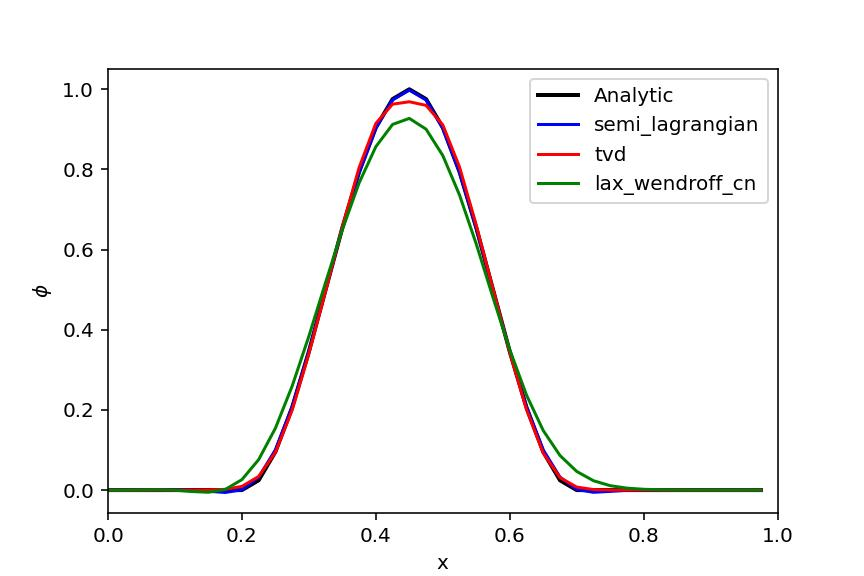
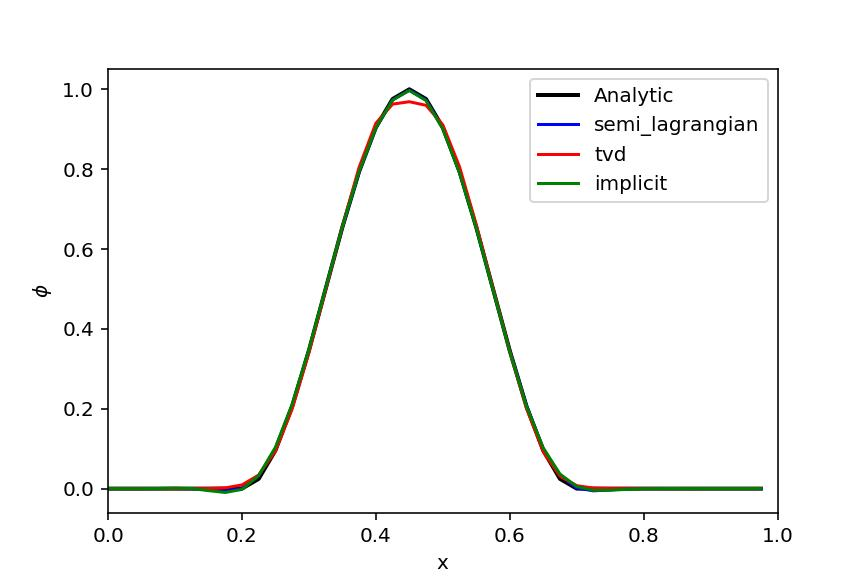
new upwind implicit scheme

diff --git a/schemes.py b/schemes.py
@@ -79,25 +79,26 @@ def tvd(phi, c):
     return None
 
 
-def A_matrix(nx, c):
-    A = np.diag(np.array([1+c*c/2.]*nx))
+def A_matrix(nx):
+    A = np.zeros((nx,nx))
     for i in range(nx):
-        A[i,(i-1)%(nx)] = - c/4. * (1+c)
-        A[i,(i+1)%(nx)] = c/4. * (1-c)
+        A[i,(i-2)%(nx)] = 1/6.
+        A[i,(i-1)%(nx)] = -1.
+        A[i,(i)%(nx)] = 1/2.
+        A[i,(i+1)%(nx)] = 1/3.
     return A
 
 def B_matrix(nx, c):
-    B = np.diag(np.array([1-c*c/2.]*nx))
-    for i in range(nx):
-        B[i,(i-1)%(nx)] = c/4. * (c+1)
-        B[i,(i+1)%(nx)] = c/4. * (c-1)
-    return B
+    return np.identity(nx) + c/2. * A_matrix(nx)
+
+def C_matrix(nx, c):
+    return np.identity(nx) - c/2. * A_matrix(nx)
 
 
-def lax_wendroff_cn(phi, c):
+def implicit(phi, c):
     '''
     Author: Hannah
-    Solves the linear advection equation for one time step using a Lax-Wendorff scheme with Crank-Nicolson in time 
+    Solves the linear advection equation for one time step using a Crank-Nicolson in time scheme with cubic interpolation
     phi is updated. Nothing is returned
     Parameters:
         phi ([1darray]): A list length one containing a 1darray which is the
@@ -115,10 +116,10 @@ def lax_wendroff_cn(phi, c):
     # Update phi for all points
     nx = len(phiOld)
     
-    A = A_matrix(nx, c)
     B = B_matrix(nx, c)
+    C = C_matrix(nx, c)
     
-    phiNew = np.linalg.solve(A, B @ phiOld)
+    phiNew = np.linalg.solve(B, C @ phiOld)
     
     phi[1] = phiNew
     # Remove the old value of phi

diff --git a/growingErrors.py b/growingErrors.py
@@ -237,10 +237,14 @@ def tv_test(x):
     
 schemes = [FTBS, CTCS, FTCS]
 
-schemes_new = [semi_lagrangian, tvd, lax_wendroff_cn]
+schemes_new = [semi_lagrangian, tvd, implicit]
 
-#growingErrors(cosBell_0_05, schemes_new, "basicSchemesCosMass.jpg", nx = 80, nt = 100, u = 1, endTime = 1)
+#(cosBell_0_05, schemes_new, "basicSchemesCosMass.jpg", nx = 80, nt = 100, u = 1, endTime = 1)
 
-#plot_tvd(tv_test, schemes_new, "tv_nx_80_nt_160.jpg", nx = 80, nt = 160, u = 1, endTime = 1)
+#plot_tvd(sqWave_0_05, schemes_new, "tv_nx_80_nt_160.jpg", nx = 80, nt = 160, u = 1, endTime = 1)
 
-plot_inc_c(cosBell_0_05, schemes_new, "_courant.jpg", start_nx = 60, nt = 100, endTime = 1)
+plot_tvd(sqWave_0_05, schemes, "tv_nx_80_nt_160_basic.jpg", nx = 80, nt = 160, u = 1, endTime = 1)
+
+#plot_inc_c(cosBell_0_05, schemes, "_courant.jpg", start_nx = 60, nt = 100, endTime = 1)
+
+#plot_mass_error(sqWave_0_05, schemes_new, "mass_test.jpg", nx = 60, nt = 100, endTime = 1)

diff --git a/advection.py b/advection.py
@@ -92,9 +92,9 @@ def tv_test(x):
 
 # List of functions to do the advection
 schemes = [FTBS, CTCS, FTCS]
-schemes_new = [semi_lagrangian, tvd, lax_wendroff_cn]
+schemes_new = [semi_lagrangian, tvd, implicit]
 
 #compareSchemeSnapshots(cosBell_0_05, schemes_new, "newSchemesCosBell.jpg", nx = 40, nt = 20, u = 1, endTime = 0.2, xLim = [0,1])
 #compareSchemeSnapshots(sqWave_0_05, schemes_new, "newSchemesSqWave.jpg", nx = 40, nt = 20, u = 1, endTime = 0.2, xLim = [0,1])
-#compareSchemeSnapshots(mass_test, schemes, "mass_test_nx_80_nt_167_profiles.jpg", nx = 80, nt = 167, u = 1, endTime = 1)
-compareSchemeSnapshots(tv_test, schemes_new, "tv_nx_80_nt_160_profiles.jpg", nx = 80, nt = 160, u = 1, endTime = 1)
+#compareSchemeSnapshots(mass_test, schemes_new, "mass_test_nx_80_nt_167_profiles.jpg", nx = 80, nt = 167, u = 1, endTime = 1)
+#compareSchemeSnapshots(sqWave_0_05, schemes_new, "tv_nx_80_nt_160_profiles.jpg", nx = 80, nt = 160, u = 1, endTime = 1)
